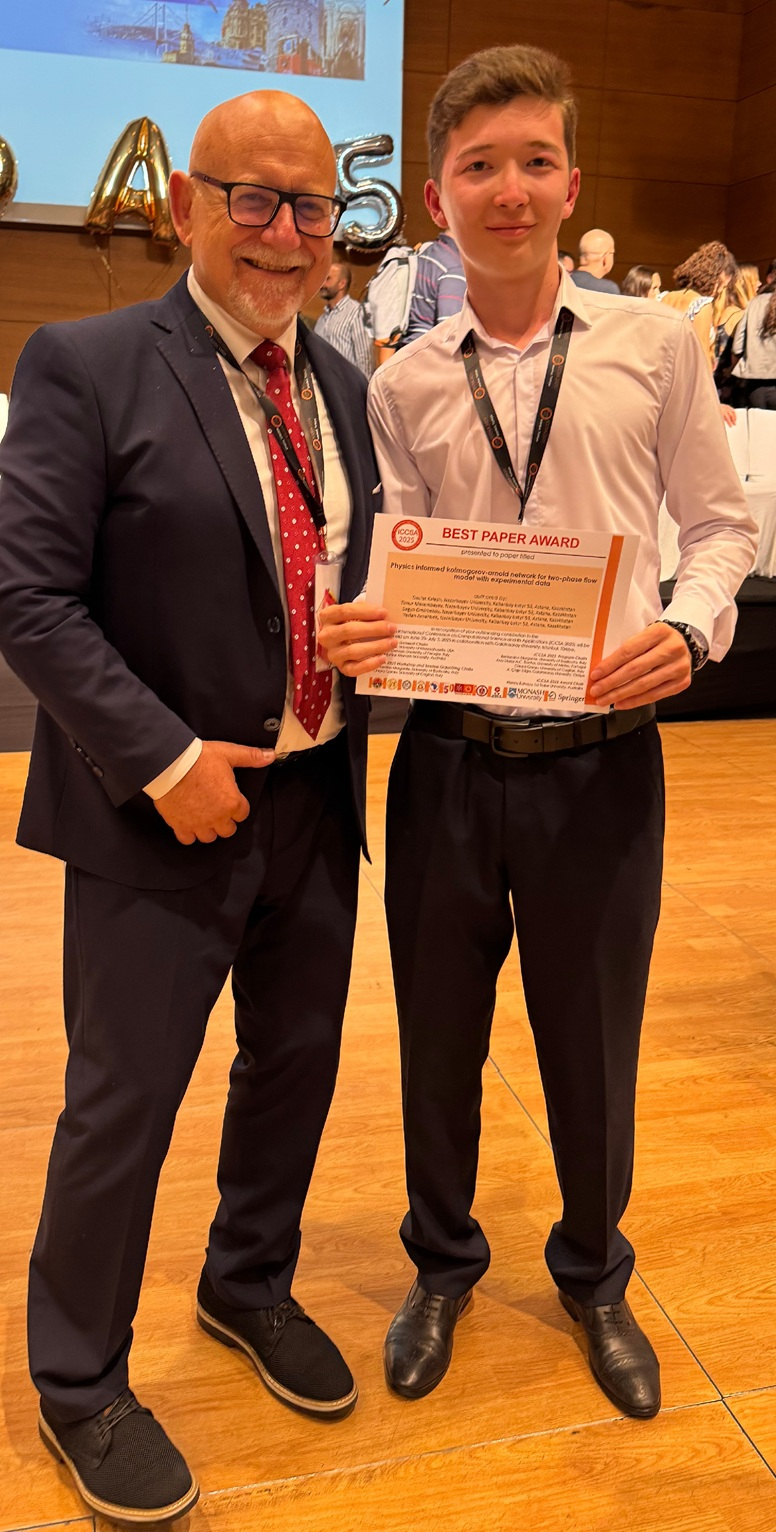
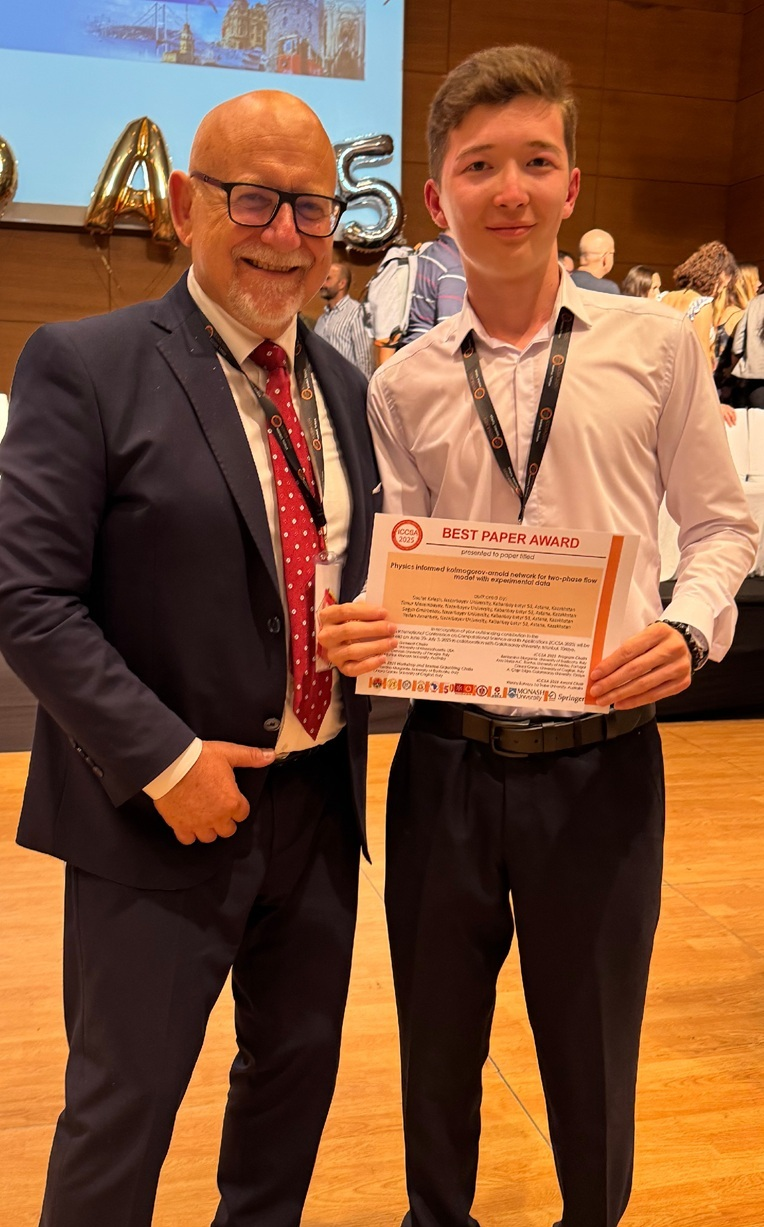
гзвфеу 9

diff --git a/_posts/2025-07-03-blog-post-9.md b/_posts/2025-07-03-blog-post-9.md
@@ -23,7 +23,7 @@ The ICCSA 2025 conference was organized in Istanbul, Türkiye.
 
 
 <!--- ![alt text](/files/posts/iccsa2025/Daulet_Award_iccsa25.JPG "Certificate")--->
-<img src="/files/posts/iccsa2025/Daulet_Award_iccsa25.JPG" alt="Certificate" title="Certificate" width="200"/>
+<img src="/files/posts/iccsa2025/Daulet_Award_iccsa25.JPG" alt="Certificate" title="Certificate" width="250"/>
 ###### Photo: Daulet from NU with Prof. Osvaldo Gervasi.
 
 <!--- We wish to acknowledge the support of Nazarbayev University, the effort of Zhumazhenis Dairabay and the assistance of Bakhytbek Zhumanov and Dr. Yerlan Amanbek.--->
